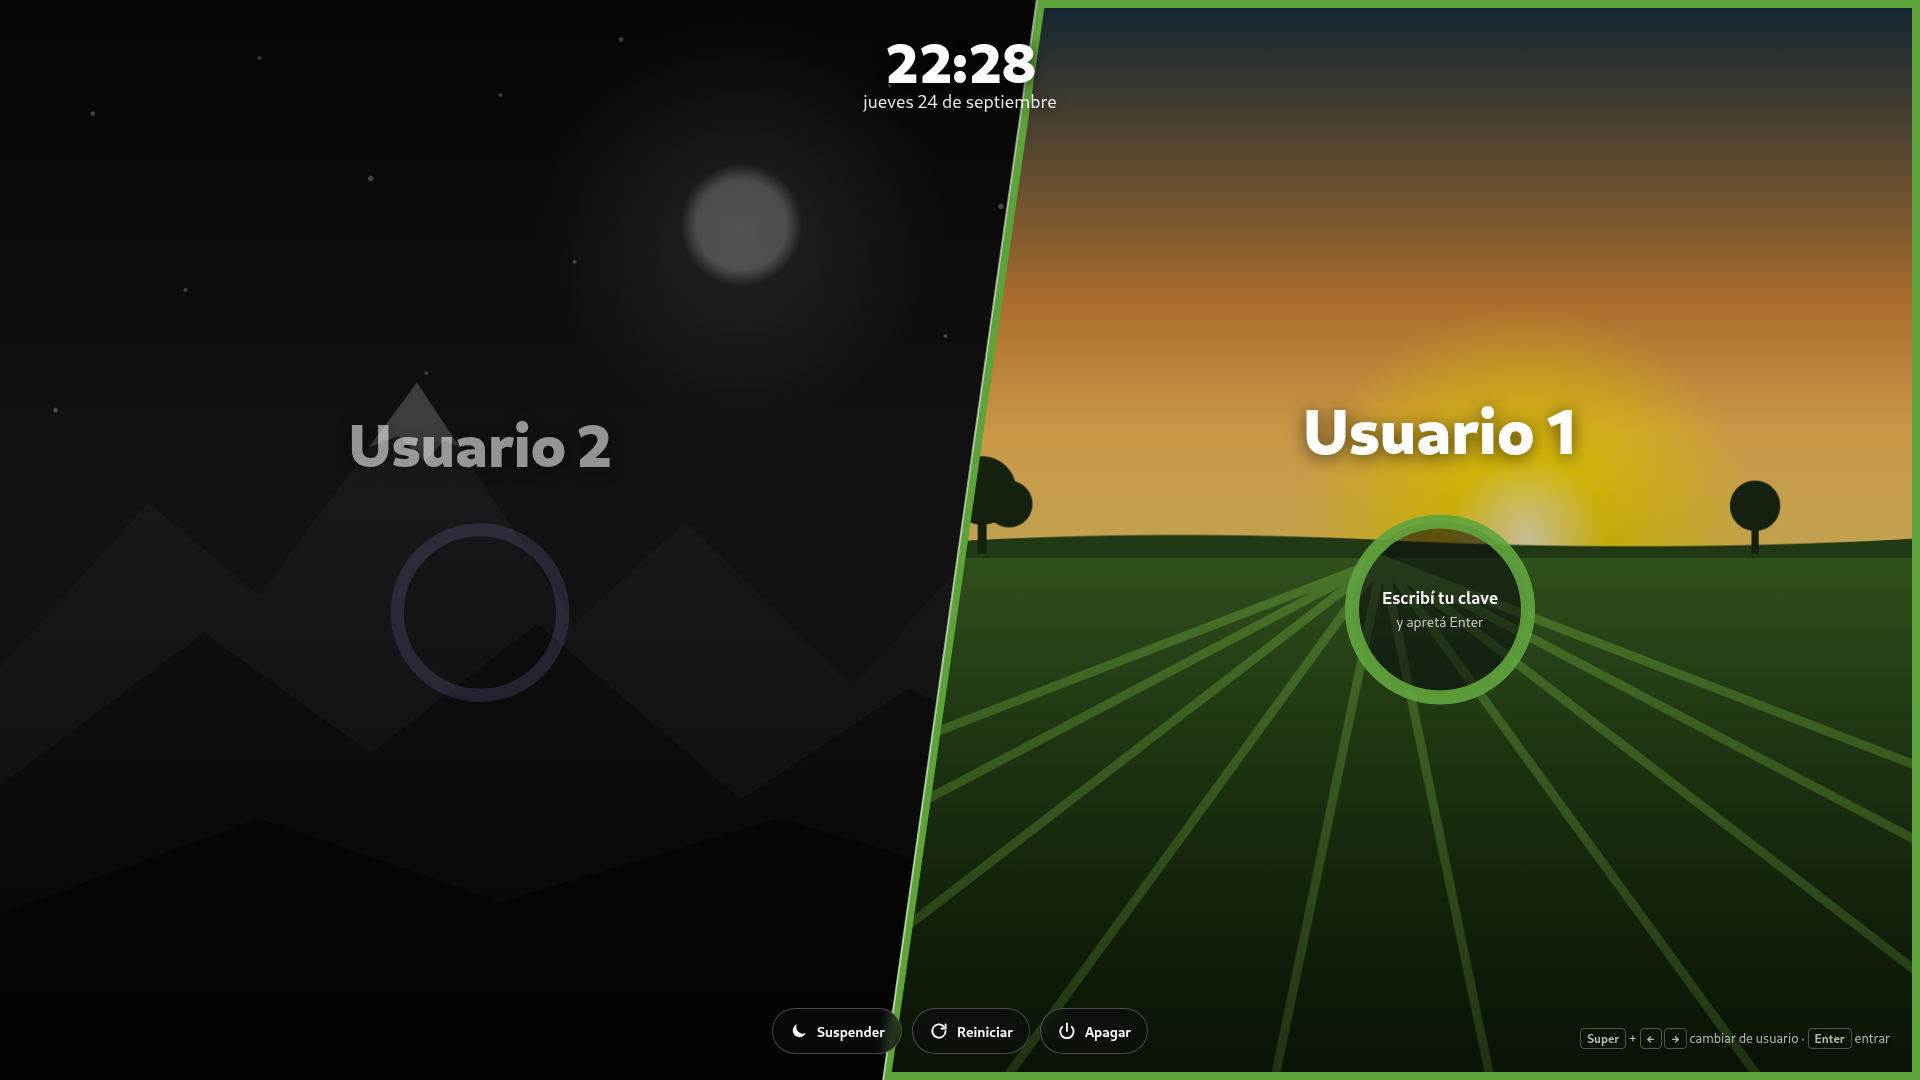
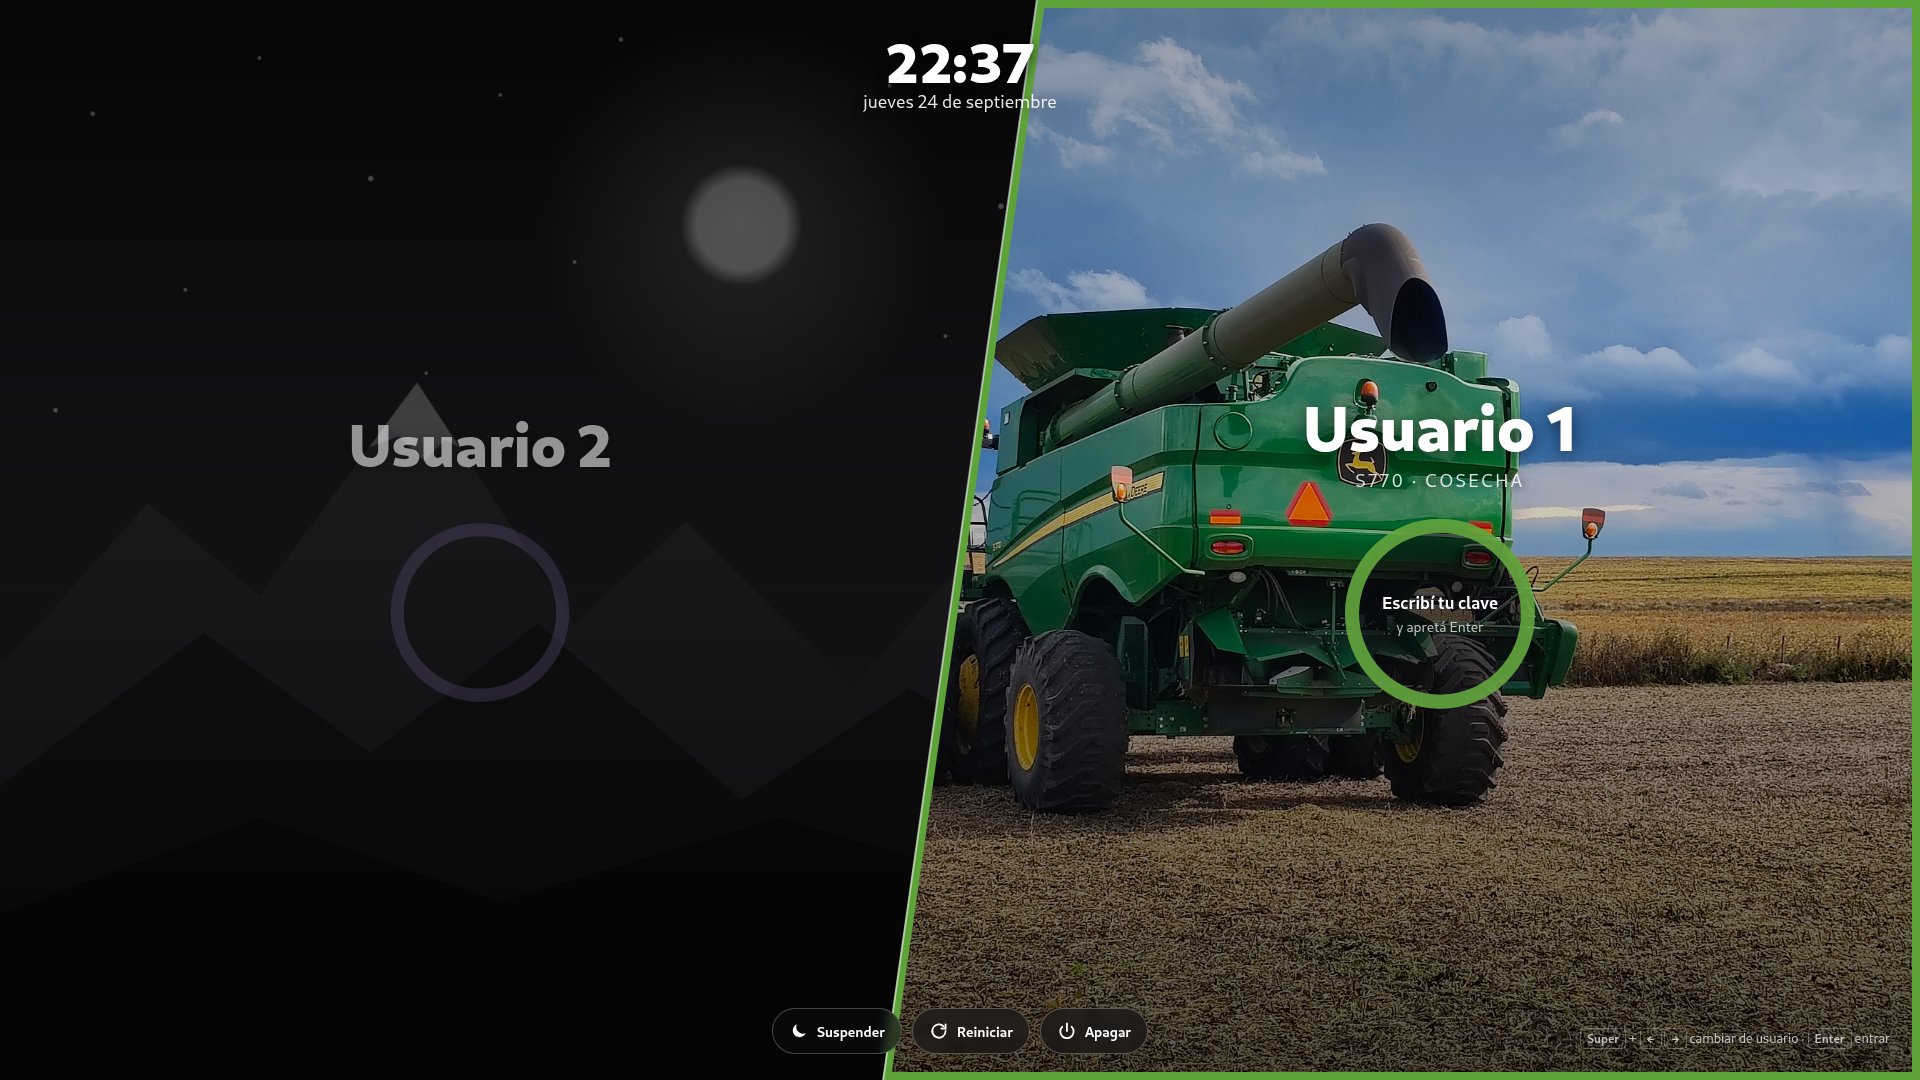
Login: la S770 del lado verde en vez del dibujo del campo
El ejemplo y los usuarios sin configurar usan bloqueo.jpg (la misma foto
de la pantalla de bloqueo, ya en el repo), con "S770 · cosecha".

diff --git a/greeter/usuarios.ejemplo.js b/greeter/usuarios.ejemplo.js
@@ -4,8 +4,8 @@
 // "encuadre": qué parte de la foto se ve, ej. "35% 60%" (opcional). "tinte": true tiñe la foto con el color.
 // "brillo": aclara u oscurece la foto (1 = normal, de 0.5 a 2), ej. 1.4 para una foto oscura.
 // Las fotos van en la misma carpeta, con nombres sin espacios (ej: yo.jpg).
-// campo.png y montanas.png son dibujos de ejemplo (greeter/ejemplo/): reemplazalos por los tuyos.
+// bloqueo.jpg es la foto de la S770 del repo y montanas.png un dibujo de ejemplo: reemplazalos por los tuyos.
 window.G5_USUARIOS = {
-  "usuario1": { "nombre": "Usuario 1", "detalle": "", "foto": "campo.png",    "color": "#5ea23a", "resalte": "#ffde00", "lado": "derecha" },
+  "usuario1": { "nombre": "Usuario 1", "detalle": "S770 · cosecha", "foto": "bloqueo.jpg", "color": "#5ea23a", "resalte": "#ffde00", "lado": "derecha", "encuadre": "35% 60%" },
   "usuario2": { "nombre": "Usuario 2", "detalle": "", "foto": "montanas.png", "color": "#9a86cf", "resalte": "#e7e1f6", "lado": "izquierda" }
 };

diff --git a/greeter/index.html b/greeter/index.html
@@ -141,8 +141,8 @@
     if (izq && der) break;
     if ((izq && izq.usuario === u.username) || (der && der.usuario === u.username)) continue;
     const x = { usuario: u.username, nombre: u.display_name || u.username, detalle: "" };
-    // Sin foto propia: los dibujos de ejemplo (el instalador siempre los copia)
-    if (!der) der = Object.assign(x, { foto: "campo.png", color: "#5ea23a", resalte: "#ffde00" });
+    // Sin foto propia: la S770 del repo y el dibujo de ejemplo (el instalador siempre los copia)
+    if (!der) der = Object.assign(x, { detalle: "S770 · cosecha", foto: "bloqueo.jpg", encuadre: "35% 60%", color: "#5ea23a", resalte: "#ffde00" });
     else izq = Object.assign(x, { foto: "montanas.png", color: "#9a86cf", resalte: "#e7e1f6" });
   }
   const LADOS = { izq, der };

diff --git a/README.md b/README.md
@@ -126,8 +126,8 @@ la misma carpeta. Después:
 sudo ~/.config/g5/greeter/instalar.sh
 ```
 
-Sin `usuarios.js` propio muestra los dos primeros usuarios del sistema con los dibujos de ejemplo
-(`greeter/ejemplo/`); a quien no configures también le tocan esos. Para probarlo sin cerrar sesión,
+Sin `usuarios.js` propio muestra los dos primeros usuarios del sistema: uno con la S770 de la pantalla
+de bloqueo y el otro con un dibujo de ejemplo (`greeter/ejemplo/`). Para probarlo sin cerrar sesión,
 abrí `greeter/index.html` en Chromium: tiene un modo prueba (la clave es `demo`).
 Para volver al login de antes:
 
